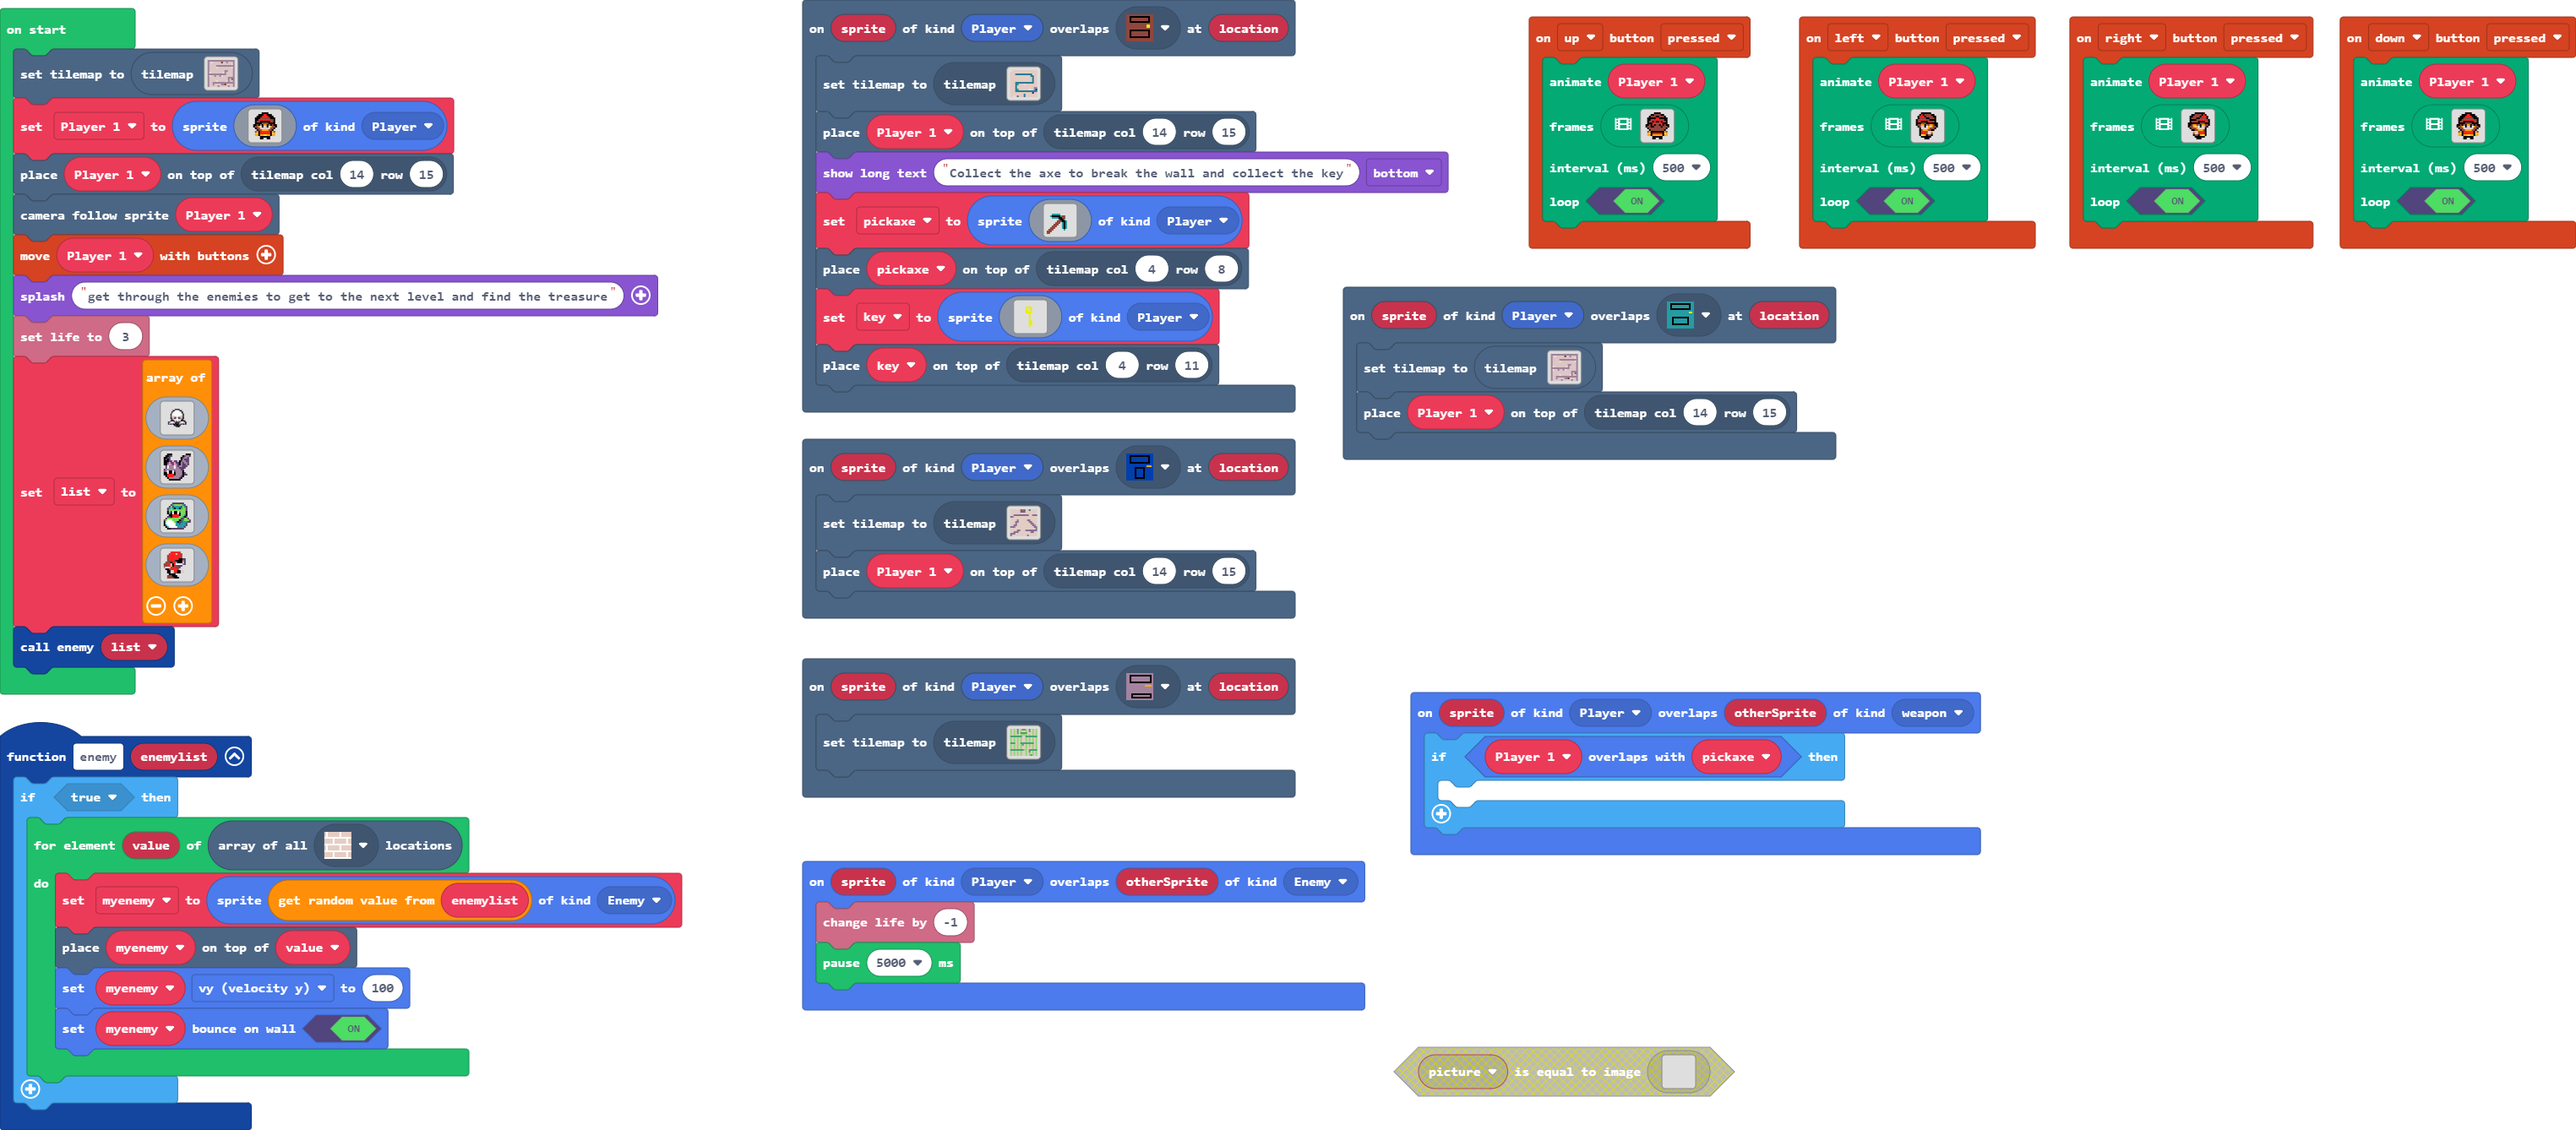
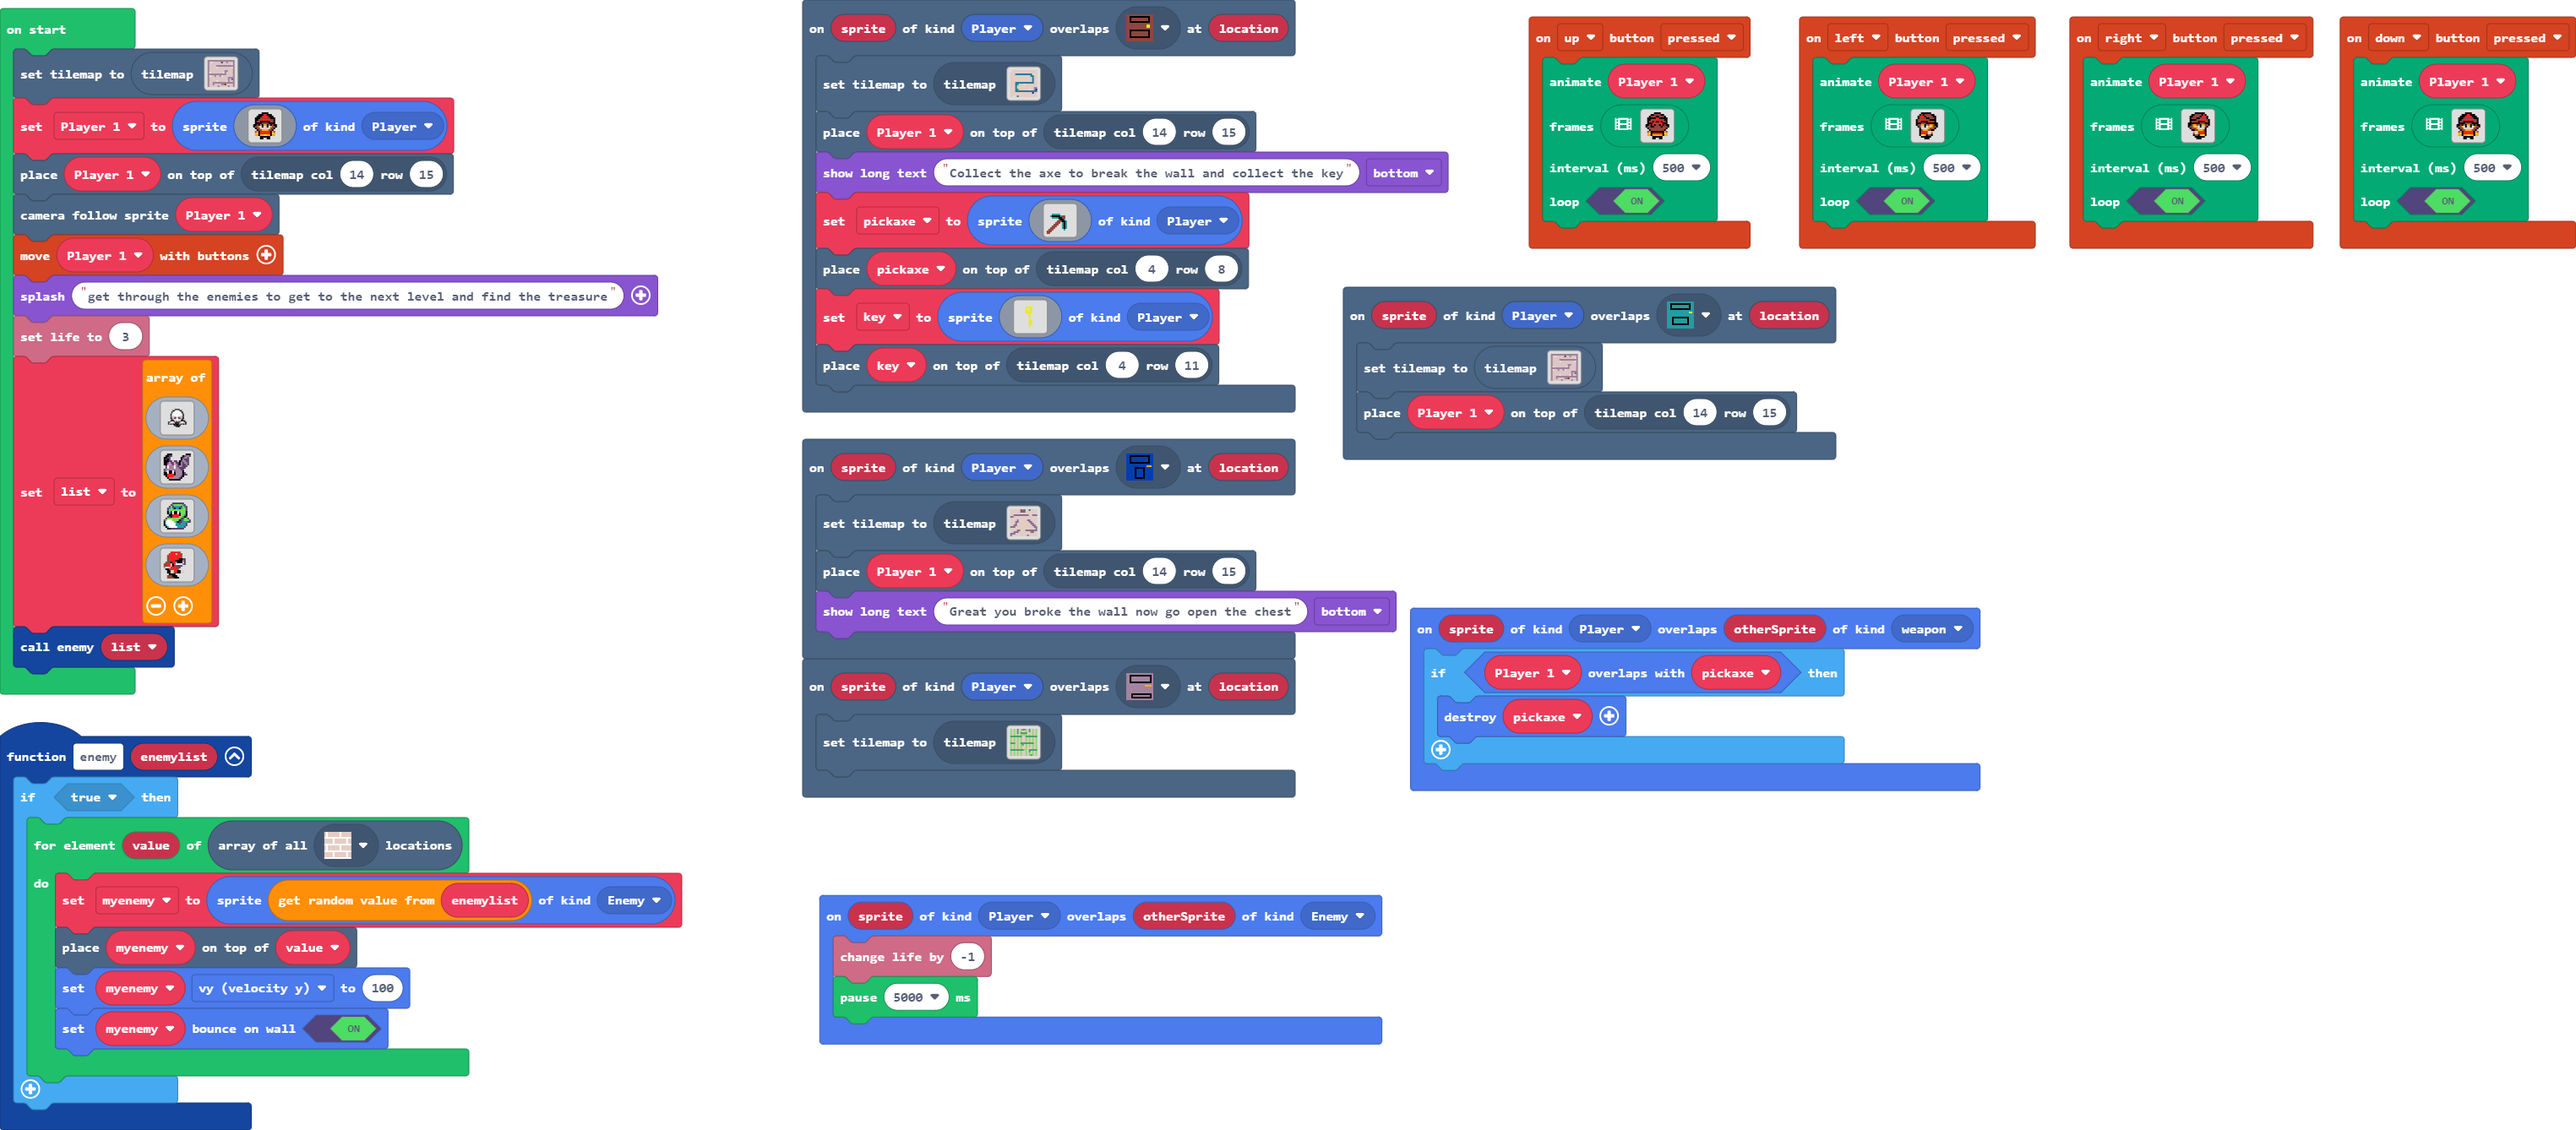
Update main.blocks, main.ts, tilemap.g.jres, tilemap.g.ts

Changed region(s): [[0.3116, 0.5209, 0.7789, 0.9806]]

diff --git a/tilemap.g.ts b/tilemap.g.ts
@@ -242,7 +242,7 @@ namespace myTiles {
 2 . . . . . 2 . . . . . 2 . . 2 
 `, [myTiles.transparency16,sprites.dungeon.floorLight0,myTiles.tile2,sprites.castle.rock2,sprites.builtin.brick,myTiles.tile1,sprites.dungeon.floorLight1], TileScale.Sixteen);
             case "level2":
-            case "level2":return tiles.createTilemap(hex`1000100004010101010101010101010101010101010101010101010101010101010101010101010202020202020202020204010101010101010101010101010102020101010101010101010101010101010201010101010101010101010101010102010101010101010101010101010101020101010101020202020202020202020201010101010205010101040101010101010101010102010101010101010101010101010101020101010101010101010106060101010205010101010101040101060301010102020202020202020202020202010101010101010101010101010301010101010101010101020101010101010101010401020101010201010101010101`, img`
+            case "level2":return tiles.createTilemap(hex`1000100004010101010101010101010101010101010101010101010101010101010101010101010202020202020202020204010101010101010101010101010102020101010101010101010101010101010201010101010101010101010101010102010101010101010101010101010101020101010101020202020202020202020201010101010205010101040101010101010101010102010101010101010101010101010101020101010101010101010106060101010205010101010101040101060301010102020202020202020202020202010101010101010101010101010301010101010101010101010101010101010101010401020101010101010101010101`, img`
 . . . . . . . . . . . . . . . . 
 . . . . . . . . . . . . . . . . 
 . . . 2 2 2 2 2 2 2 2 2 2 . . . 

diff --git a/main.ts b/main.ts
@@ -47,6 +47,7 @@ scene.onOverlapTile(SpriteKind.Player, assets.tile`myTile0`, function (sprite, l
 scene.onOverlapTile(SpriteKind.Player, assets.tile`myTile1`, function (sprite, location) {
     tiles.setCurrentTilemap(tilemap`level4`)
     tiles.placeOnTile(Player_1, tiles.getTileLocation(14, 15))
+    game.showLongText("Great you broke the wall now go open the chest", DialogLayout.Bottom)
 })
 controller.up.onEvent(ControllerButtonEvent.Pressed, function () {
     animation.runImageAnimation(
@@ -371,7 +372,7 @@ scene.onOverlapTile(SpriteKind.Player, assets.tile`myTile2`, function (sprite, l
 })
 sprites.onOverlap(SpriteKind.Player, SpriteKind.weapon, function (sprite, otherSprite) {
     if (Player_1.overlapsWith(pickaxe)) {
-    	
+        sprites.destroy(pickaxe)
     }
 })
 sprites.onOverlap(SpriteKind.Player, SpriteKind.Enemy, function (sprite, otherSprite) {
